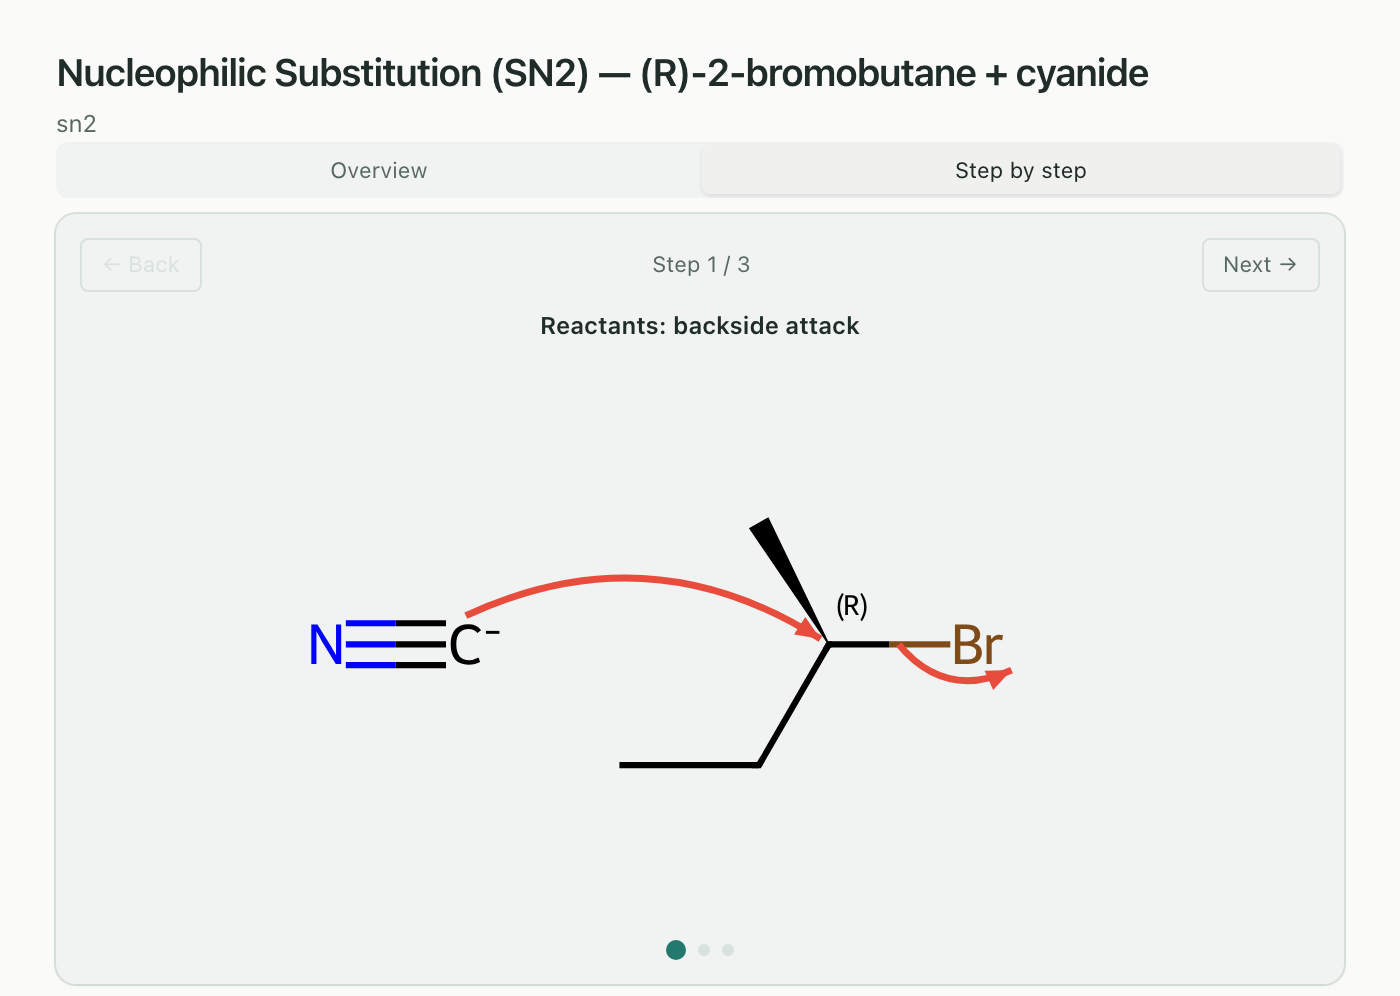
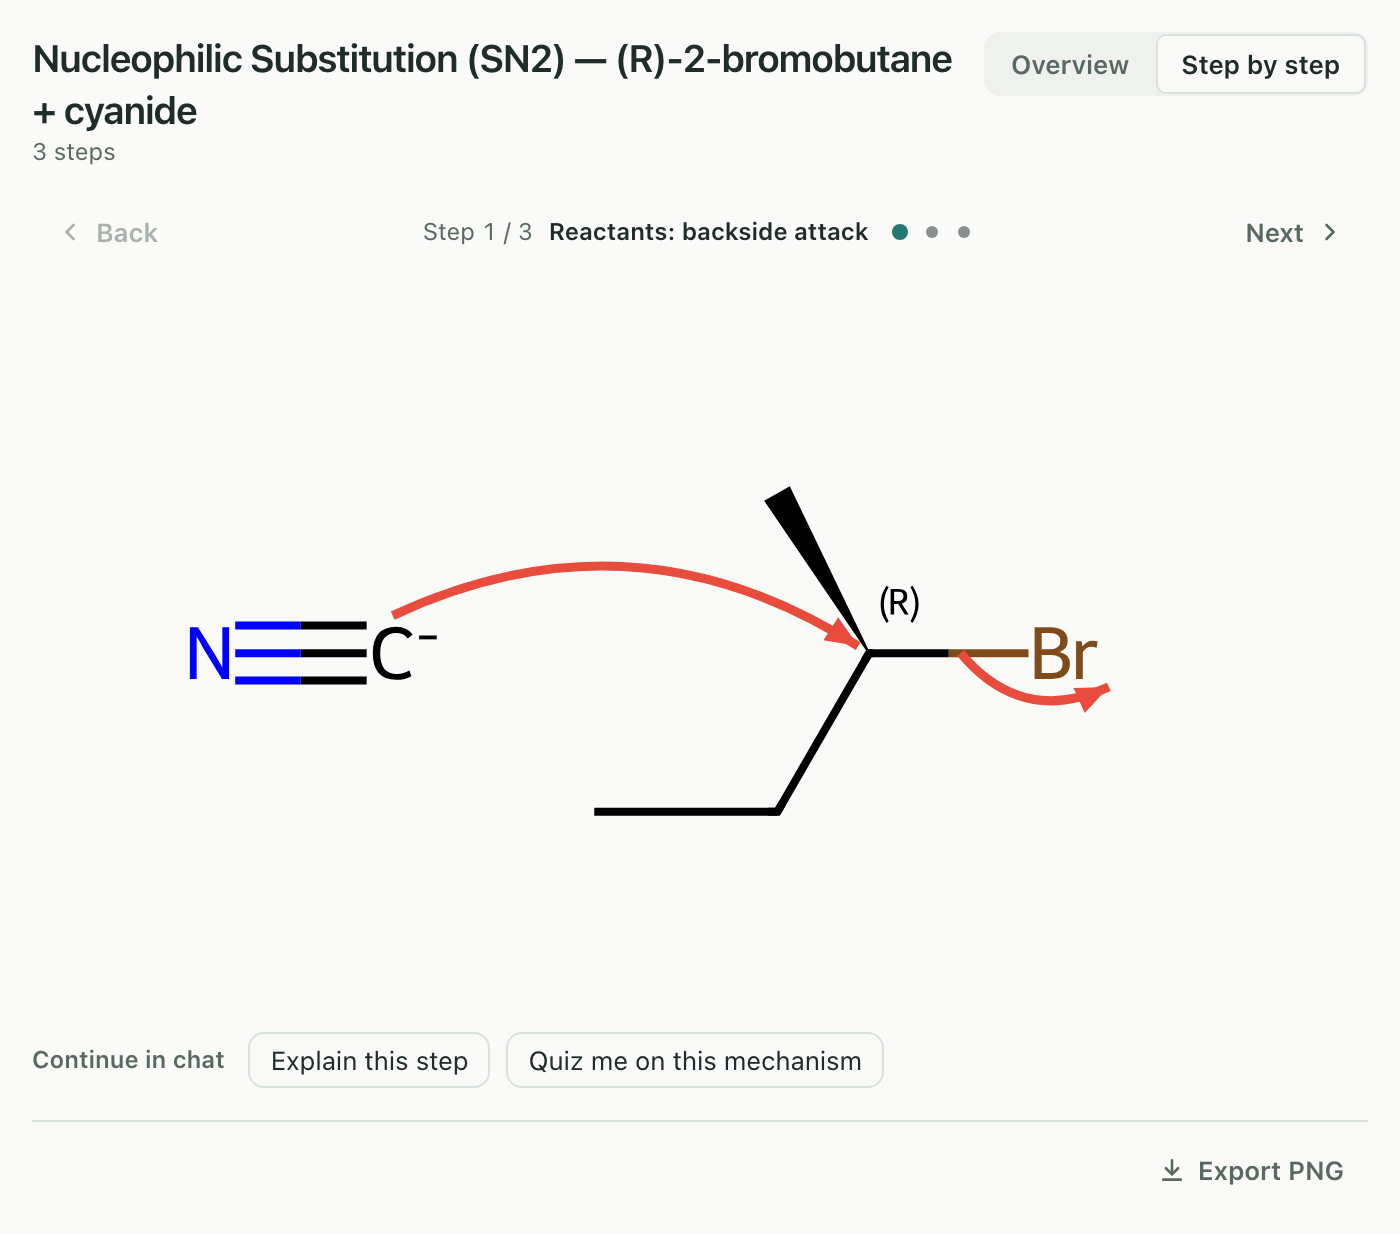
README und Doku auf das neue Panel: Kopf neu gefasst, Panelbilder neu, Changelog ergänzt
README: Leitsatz und GIFs zuerst, fünf Gründe, Installation, Stern-Hinweis. Panelbilder (GIFs und
docs/images/panel-*) aus dem heutigen Panel neu erzeugt; die sechs Doku-Fälle stehen jetzt in
panel-shots.mjs. docs/tools.md beschreibt Faktenzeile, Reiter und Kartenvorschau statt Lipinski und
Data-Knopf. Changelog nennt Neugestaltung, Continue in chat, Study, Prompts, Batch-Raster.

Claude-Session: https://claude.ai/code/session_01RTLSKbom9NsUgtbFpZrYtK

diff --git a/README.md b/README.md
@@ -11,10 +11,29 @@
 [![Release](https://img.shields.io/github/v/release/jurimaxam-dotcom/chemdraw-mcp)](https://github.com/jurimaxam-dotcom/chemdraw-mcp/releases)
 [![License: Apache-2.0](https://img.shields.io/badge/license-Apache--2.0-blue)](https://github.com/jurimaxam-dotcom/chemdraw-mcp/blob/main/LICENSE)
 [![PyPI](https://img.shields.io/pypi/v/chemdraw-mcp)](https://pypi.org/project/chemdraw-mcp/)
+[![GitHub stars](https://img.shields.io/github/stars/jurimaxam-dotcom/chemdraw-mcp?style=flat&label=stars)](https://github.com/jurimaxam-dotcom/chemdraw-mcp/stargazers)
 
-**Draw chemical structures in Claude Desktop, explore them in the chat, and export PNG or SVG.**
+<p align="center"><b>Ask Claude for a molecule. Get a drawing you can turn, click and export.</b></p>
 
-An MCP server for chemistry, with interactive panels in Claude Desktop.
+chemdraw-mcp gives Claude Desktop a chemistry panel. Type *"Draw caffeine"* and
+the structure appears in the chat: a clean skeletal formula, a 3D model you
+rotate with the mouse, the PubChem data sheet one tab away, PNG and SVG on
+disk. The same works for reaction mechanisms with electron-flow arrows,
+proteins and antibodies from the PDB, spectra, TLC plates and titration
+curves.
+
+<!-- Hero: recorded with `npm --prefix chemdraw_tool/ui run readme:gifs` (panel test host, 600 px, light and dark). -->
+<p align="center">
+  <picture><source media="(prefers-color-scheme: dark)" srcset="https://raw.githubusercontent.com/jurimaxam-dotcom/chemdraw-mcp/main/assets/demo-views-dark.gif"><img src="https://raw.githubusercontent.com/jurimaxam-dotcom/chemdraw-mcp/main/assets/demo-views-light.gif" alt="The thalidomide panel: skeletal formula, All H, Show variants, the (S) isomer drawn with wedges, then the PubChem data sheet with the CAS number" width="49%"></picture>
+  <picture><source media="(prefers-color-scheme: dark)" srcset="https://raw.githubusercontent.com/jurimaxam-dotcom/chemdraw-mcp/main/assets/demo-3d-dark.gif"><img src="https://raw.githubusercontent.com/jurimaxam-dotcom/chemdraw-mcp/main/assets/demo-3d-light.gif" alt="The thalidomide panel: the 3D button swaps the drawing for a ball-and-stick model in a bowl, rotated by dragging" width="49%"></picture>
+</p>
+<p align="center"><sub>Prompt: <i>"Draw thalidomide"</i>. Left: skeletal formula, all hydrogens, the (S) isomer, the data sheet. Right: the same molecule in 3D, turned by dragging.</sub></p>
+
+- **Interactive, not a picture.** 13 of the 18 tools open a panel in the chat: switch views, pin a functional group, step through a mechanism, rotate a protein.
+- **Drawn on your machine.** RDKit renders every structure locally. A SMILES you type stays there; only its InChIKey, a hash, is looked up.
+- **Made for studying.** A Study tab that covers name and groups, follow-up buttons that ask Claude about what you see, and Anki cards with the structure on the front.
+- **Checked before it ships.** About 10,000 tests, 67 names pinned to their InChIKey, and a scripted run in the real Claude Desktop before every release.
+- **Free.** No additional API key, no ChemDraw licence. Apache-2.0; unofficial, not affiliated with Revvity.
 
 **Install in Claude Desktop (macOS, Linux):** download
 `chemdraw-mcp-<version>.mcpb` from the
@@ -26,23 +45,18 @@ double-click it, confirm, and restart Claude Desktop once.
 uv tool install chemdraw-mcp && chemdraw-install
 ```
 
-No additional API key or ChemDraw licence. Structures are drawn locally with
-RDKit; names, data sheets and proteins are looked up online. Free and open
-source (Apache-2.0); unofficial, not affiliated with Revvity.
-
-<!-- Hero: recorded with `npm --prefix chemdraw_tool/ui run readme:gifs` (panel test host, 600 px, light and dark). -->
-<p align="center">
-  <picture><source media="(prefers-color-scheme: dark)" srcset="https://raw.githubusercontent.com/jurimaxam-dotcom/chemdraw-mcp/main/assets/demo-views-dark.gif"><img src="https://raw.githubusercontent.com/jurimaxam-dotcom/chemdraw-mcp/main/assets/demo-views-light.gif" alt="The thalidomide panel: skeletal formula, All H, Show variants, the (S) isomer drawn with wedges, then the PubChem data sheet with the CAS number" width="49%"></picture>
-  <picture><source media="(prefers-color-scheme: dark)" srcset="https://raw.githubusercontent.com/jurimaxam-dotcom/chemdraw-mcp/main/assets/demo-3d-dark.gif"><img src="https://raw.githubusercontent.com/jurimaxam-dotcom/chemdraw-mcp/main/assets/demo-3d-light.gif" alt="The thalidomide panel: the 3D chip swaps the drawing for a ball-and-stick model in a bowl, rotated by dragging" width="49%"></picture>
-</p>
+Names, data sheets and proteins are looked up online; drawing from a SMILES
+works offline. If chemdraw-mcp saves you an afternoon of drawing, a
+[star on GitHub](https://github.com/jurimaxam-dotcom/chemdraw-mcp/stargazers) helps other students find it.
 
 ## Quick start
 
 1. Install as above and restart Claude Desktop once.
 2. Open a **new chat** and ask *"Draw caffeine"*.
-3. In the panel, hover a functional group, click **3D** for a rotatable
-   model, **Data** for the PubChem data sheet, or **Export PNG** to save the
-   drawing to `~/ChemDraw-Output/png/`.
+3. In the panel, click a functional group to pin it, switch to **3D** for a
+   rotatable model, **Data** for the PubChem data sheet or **Study** to quiz
+   yourself, use **Continue in chat** for a follow-up, or **Export PNG** to
+   save the drawing to `~/ChemDraw-Output/png/`.
 
 Proteins and antibodies come as a cartoon from the PDB or AlphaFold,
 rotatable in the panel:
@@ -105,7 +119,7 @@ Draw hydrogen + oxygen → water
 as a reaction scheme
 ```
 
-<img src="https://raw.githubusercontent.com/jurimaxam-dotcom/chemdraw-mcp/main/docs/images/panel-reaction.png" alt="Reaction panel: hydrogen plus oxygen to water, badge 'not balanced: left: +1 O', the suggestion 2 H2 + O2 → 2 H2O and the Apply coefficients button" width="400">
+<img src="https://raw.githubusercontent.com/jurimaxam-dotcom/chemdraw-mcp/main/docs/images/panel-reaction.png" alt="Reaction panel: hydrogen plus oxygen to water, the note 'not balanced: left: +1 O' with the suggestion 2 H2 + O2 → 2 H2O and the Apply coefficients button" width="400">
 
 </td>
 </tr>

diff --git a/CHANGELOG.md b/CHANGELOG.md
@@ -6,14 +6,31 @@ this project uses [Semantic Versioning](https://semver.org/).
 
 ## [Unreleased]
 
+### Added
+
+- **Continue in chat.** Under each panel, buttons send a ready follow-up to Claude (explain the structure, predict the IR bands, compare with a related compound, quiz me; explain this plot or spectrum). They appear only in hosts that let a panel send a message. Clicking a functional group pins it, so the buttons ask about that group; **Clear** releases it.
+- **Study tab** in the molecule panel: name, key facts and groups are covered for self-testing, with **Reveal all** and **Cover again**.
+- Four prompts in the `chemdraw` connector: *Study a compound*, *Practise a mechanism*, *Exam flashcards*, *Compare compounds*.
+- `batch_generate` panel: a grid of compact cards; a click opens the full molecule view of one structure, **Back to all structures** returns.
+- `export_anki_deck` panel: a preview of every card with front, back and picture.
+- `generate_3d` panel: formula and molar mass, computed from the structure itself (isotopes and charge count: D₂O shows 20.03 g/mol), and **Reset view**.
+- Mechanism panel: an **Overview** tab with all steps next to **Step by step**.
+
 ### Changed
+
+- **Panels redesigned on one shared frame.** Every panel now has the same order: a header with title, tabs and Expand; the picture across the full width; a facts row (formula, molar mass, CAS with copy buttons); the follow-up buttons; and a footer with a collapsible **Files** list instead of written-out paths, next to **Export PNG** and **Add to Anki**. The 3D model uses the full width and up to 720 px of height.
+- Lab graphics and the structure comparison use the full panel width and follow the dark theme; the written files stay light.
+- While a tool is still running, the panel shows a placeholder built from the request instead of "Waiting for data…".
+- Every tool carries a readable title and annotations for the host. `export_anki_deck` is marked as destructive because it updates existing notes in Anki; a host may ask for confirmation accordingly.
 
 - **`chemdraw-pharma` now adds only the pharmacy tools.** The second connector starts with a new profile, `pharma`: the seven tools the default profile lacks (`generate_scope_table`, `generate_calibration_curve`, `generate_pk_curve`, `generate_dose_response`, `calculate_solution`, `calculate_content`, `calculate_pharmacokinetics`) plus the panel's two internal helpers — 9 tools, 4 with a panel. Before, it started with the `full` profile, so with both connectors on the model saw 18 tools twice, and calls landed on either connector at random, each with its own permissions. Now both can be on at once and every tool appears once. If you used only `chemdraw-pharma`, enable `chemdraw` as well, or set `CHEMDRAW_PROFILE=full` in a config entry of your own. Re-run `./install.sh` or `chemdraw-install` to update an existing entry (`chemdraw-doctor` points out an old one); the extension bundle `chemdraw-mcp-pharma-<version>.mcpb` starts with `pharma` from this release on. The learning prompts stay with `chemdraw`.
 - Panel layout follows the size Claude reports. In the side panel and in full screen the drawing area grows to fill the height (2D, All H, 3D, protein stage) instead of staying 320 px tall, and the panel may use up to 1600 px of width. In the conversation nothing changes. Down to 320 px width no view scrolls sideways; a reaction scheme that would become too small stacks instead.
-- Molecule panel: an Expand button appears where the host offers a larger display and the panel sits in the conversation.
+- Every panel with a picture has an Expand button at the right of its header where the host offers a larger display and the panel sits in the conversation.
 
 ### Fixed
 
+- Spectra: labels of neighbouring bands sit above the curve instead of between the band walls.
+- Mechanisms: substrates with caged stereocentres (morphine with acetic acid, Fischer esterification) are drawn with your molecules instead of the textbook example.
 - Large results show their panel again. A big molecule (Vancomycin), a long batch or a comparison of large structures produced a tool result of 200,000 to over 1,000,000 characters, above the ~150,000 at which Claude Desktop stops showing the panel. Results now stay under 120,000: the text block carries compact instead of indented JSON, and a result that is still too large holds its images back, which the panel fetches piece by piece through a new internal tool, `load_panel_part` (never called by the model, like `save_png`). The held-back images are kept in `~/Library/Caches/chemdraw-mcp/panel-parts/` (`~/.cache/…` elsewhere; the last 200 results), so a reopened conversation still shows them after a restart. Default profile 18 tools (13 with a panel), full profile 25 (17). Smaller results are unchanged apart from the indentation.
 - All H view: hydrogens in bridged ring systems (morphine, camphor, adamantane, steroids) no longer land on top of each other or on a heavy atom. Crowded hydrogens are placed again around their atom; the heavy-atom skeleton stays where the skeletal formula has it, and drawings that were already clean do not change.
 - Molecule panel: for ring sugars the sentence explaining that the Fischer projection shows the open-chain form now appears under the Fischer view instead of under Haworth. Glycosides, which have no Fischer view, keep their explanation under Haworth.

diff --git a/docs/tools.md b/docs/tools.md
@@ -21,10 +21,11 @@ direct hit is cross-checked against the other source (free form over salt
 unless the name says salt, the more defined stereo form wins); a pinned
 identity test checks 67 inputs against their InChIKey, and family names such
 as "xylene" return an isomer picker instead of a silent guess. The panel
-shows properties, functional groups and the Lipinski rule of five, with
-buttons for the data sheet, PNG export, an Anki card and a rotatable 3D
-model; when the name was found under another spelling, a "Found as" line
-says which. Fischer and Haworth projections, the chair conformation of a
+shows formula, molar mass and CAS number (with copy buttons) and the
+functional groups; tabs switch between Structure, Data (the PubChem data
+sheet) and Study, the drawing bar offers a rotatable 3D model, and the footer
+holds PNG export and an Anki card. When the name was found under another
+spelling, a "Found as" line says which. Fischer and Haworth projections, the chair conformation of a
 cyclohexane or pyranose ring and all-H drawings are a `view` option and
 panel buttons.
 
@@ -184,7 +185,8 @@ conditions above and below a forward (→), equilibrium (⇌) or retrosynthetic
 
 **Mechanisms — three families, drawn with your molecules.** `generate_mechanism`
 draws SN2, SN1 and Fischer esterification with the substrates you name, with
-curved electron-flow arrows and **Next / Back** through the intermediates. SN2
+curved electron-flow arrows, an **Overview** of all steps and a **Step by step**
+tab with **Back / Next** through the intermediates. SN2
 takes a methyl, primary or secondary alkyl halide with one anionic nucleophile
 (OH⁻, CN⁻, I⁻, Br⁻, RO⁻, N₃⁻, RS⁻/HS⁻) and inverts a stereocentre; SN1 takes a
 tertiary or benzylic halide with water, an alcohol or one of those anions (an
@@ -199,8 +201,9 @@ reason. Other mechanisms are not available.
 <p align="center"><img src="../assets/wave1-mechanisms.png" alt="Second step of SN1, SN2 and Fischer esterification, each with curved electron-flow arrows, drawn from the step SVGs that generate_mechanism returns" width="960"></p>
 
 **3D.** `generate_3d` embeds one conformer (ETKDGv3, then MMFF or UFF), opens a
-ball-and-stick panel you drag to rotate and writes an SDF file; the same model
-is behind the `3D` button of every molecule panel:
+ball-and-stick panel you drag to rotate (with **Reset view**, formula and molar
+mass) and writes an SDF file; the same model is behind the `3D` button of every
+molecule panel:
 
 <p align="center"><img src="../assets/wave1-3d.png" alt="Ball-and-stick projection of the caffeine conformer that generate_3d embeds; the panel shows the same atoms and lets you rotate them" width="420"></p>
 
@@ -241,9 +244,10 @@ species across pH 0–14:
   (ChEBI classification, UniProt entries; for a protein name a UniProt data
   sheet with function, EC number, length, mass and PDB IDs) or `pathway`
   (KEGG pathways).
-- **`lookup_molecule_data`** builds the PubChem + GHS data sheet in the panel.
-  The molecule panel's **Data** button calls it too, so a drawn structure is
-  one click away from its data sheet.
+- **`lookup_molecule_data`** opens the molecule panel with its **Data** tab
+  open: the PubChem + GHS data sheet, with structure, 3D and export one click
+  away. The **Data** tab of every molecule panel calls it too, so a drawn
+  structure is one click away from its data sheet.
 - **`predict_spectrum`** lists the IR bands a structure should show (intensity,
   band shape), what a measured wavenumber could belong to, and how many ¹H
   signals to expect with their integral ratio. It is rule-based: no chemical
@@ -277,8 +281,8 @@ identity reactions and spectrum band assignments, with tags and
 `Parent::Child` subdecks. Re-exporting a deck updates its cards instead of
 duplicating them. With the AnkiConnect add-on the cards go straight into the
 running Anki. `curated_deck_id` picks a small bundled starter deck instead of
-your own cards. The molecule panel's **Add to Anki** button adds a single
-structure card.
+your own cards. The panel previews every card with front, back and picture.
+The molecule panel's **Add to Anki** button adds a single structure card.
 
 <p align="center"><img src="../assets/anki-card.png" alt="An Anki card from export_anki_deck: the front asks to name the aspirin structure, the back repeats the structure and answers Aspirin (acetylsalicylic acid)" width="760"></p>
 

diff --git a/docs/development.md b/docs/development.md
@@ -38,12 +38,17 @@ guard which tool the model picks.
 
 The README images in `assets/` come from `scripts/readme_bilder.py`, not from
 hand edits; `tests/test_readme.py` pins their hashes.
-The three panel GIFs (`demo-views`, `demo-3d`, `demo-molecule`) are recorded in the
-panel test host at 600 px, each in a light and a dark version (`assets/demo-<scene>-light.gif`,
-`-dark.gif`; the README picks one via `<picture>`/`prefers-color-scheme`):
-`npm --prefix chemdraw_tool/ui run readme:gifs` records all scenes in both themes;
+The panel GIFs are recorded in the panel test host (600 px wide, `hero-capsaicin` 800 px):
+`npm --prefix chemdraw_tool/ui run readme:gifs` records `demo-views`, `demo-3d` and
+`demo-molecule` in a light and a dark version (`assets/demo-<scene>-light.gif`, `-dark.gif`;
+the README picks one via `<picture>`/`prefers-color-scheme`) plus `hero-capsaicin`,
+`hero-caffeine-3d` and `lysozyme-cartoon` in light only. The README shows `demo-views`,
+`demo-3d` and `lysozyme-cartoon`.
 `-- views 3d --theme dark` limits scenes and theme, `--molecule NAME` swaps the molecule.
-The two hero scenes share one fixed 600×880 crop. The script needs network and turns red
+The panel screenshots in `docs/images/` (`panel-*.png`, `protein-panel-lysozyme.png`) come from
+`SHOTS_ONLY='doku-*' node src/host/panel-shots.mjs <folder>` in `chemdraw_tool/ui`; copy each
+`doku-*-light.png` by hand to its name under `docs/images/` (the mapping is noted in the script).
+The two hero scenes share one fixed 600×936 crop. The script needs network and turns red
 on width, duration, size, frame rate, a cut-off panel part or unequal hero sizes. The old
 names `demo-views.gif`, `demo-3d.gif` and `demo-molecule.gif` stay as copies of the light
 versions because PyPI and older release notes link them.

diff --git a/docs/reactions-and-mechanisms.md b/docs/reactions-and-mechanisms.md
@@ -35,8 +35,8 @@ The panel counts atoms and charge on both sides of the drawn equation
 
 | Prompt | Panel |
 |---|---|
-| *"Draw H2 + O2 → H2O as a reaction scheme"* | <img src="images/panel-reaction.png" alt="Badge 'not balanced: left: +1 O', suggestion 2 H2 + O2 → 2 H2O, Apply coefficients button" width="420"> |
-| click **Apply coefficients** | <img src="images/panel-reaction-applied.png" alt="2 H2 + O2 → 2 H2O with the badge balanced" width="420"> |
+| *"Draw H2 + O2 → H2O as a reaction scheme"* | <img src="images/panel-reaction.png" alt="Note 'not balanced: left: +1 O' with the suggestion 2 H2 + O2 → 2 H2O and the Apply coefficients button" width="420"> |
+| click **Apply coefficients** | <img src="images/panel-reaction-applied.png" alt="2 H2 + O2 → 2 H2O, marked balanced, with an Undo button" width="420"> |
 
 The badge only checks; it never changes the drawing on its own. If you ask
 for "a balanced equation", Claude often passes the coefficients itself, and
